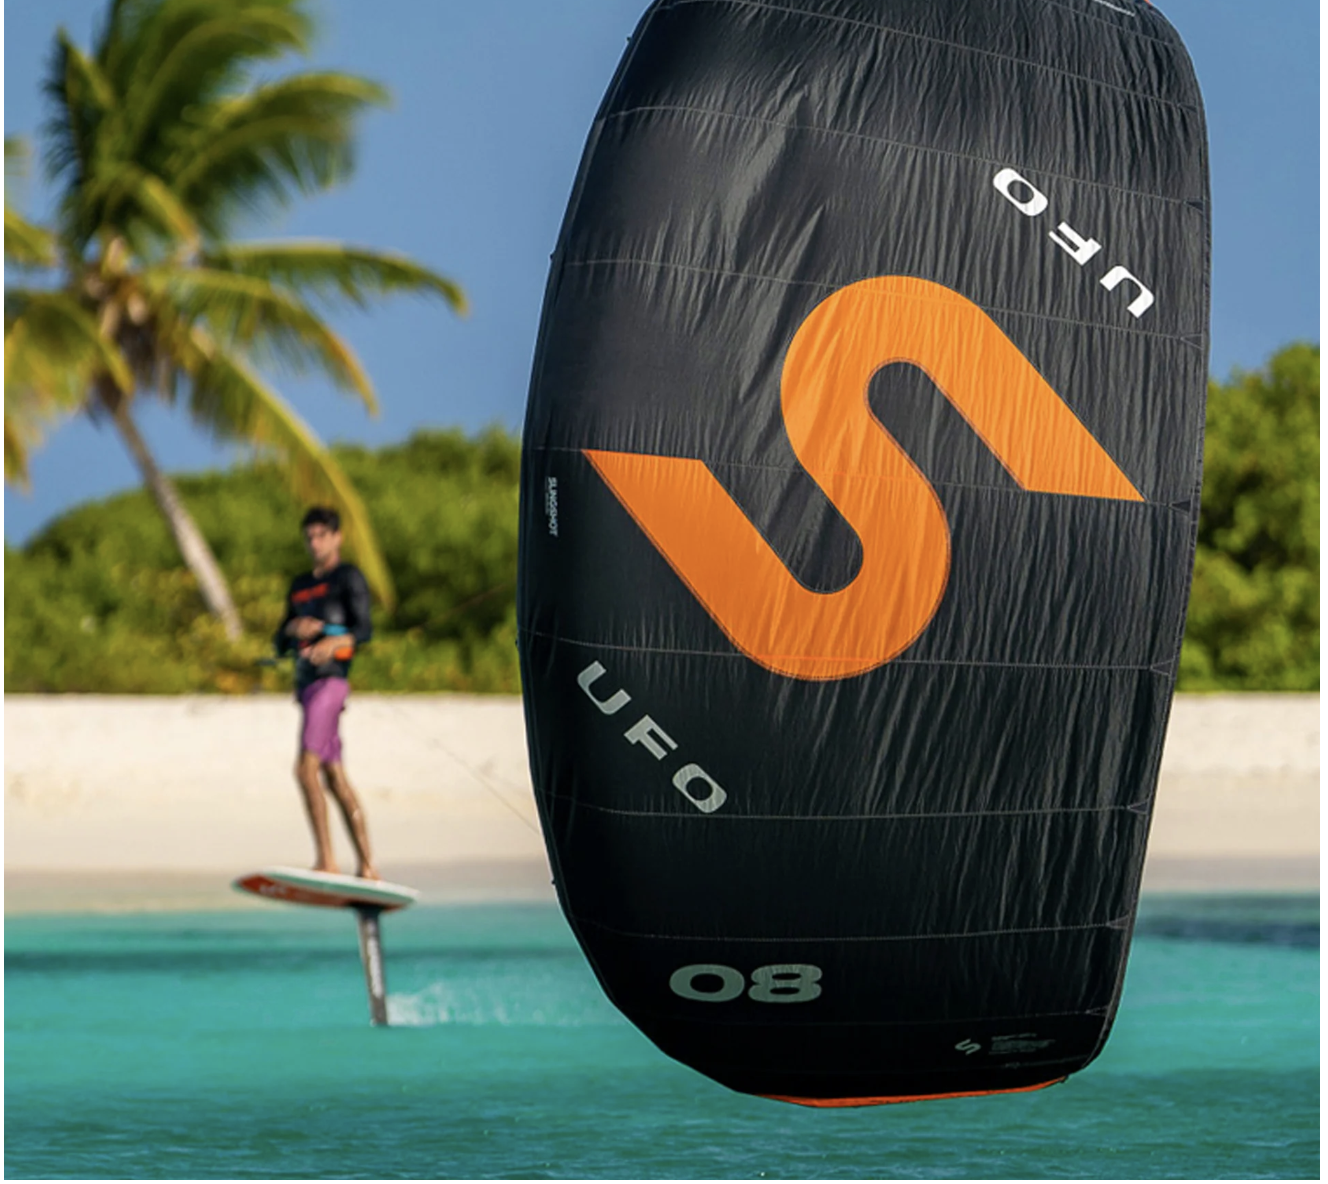
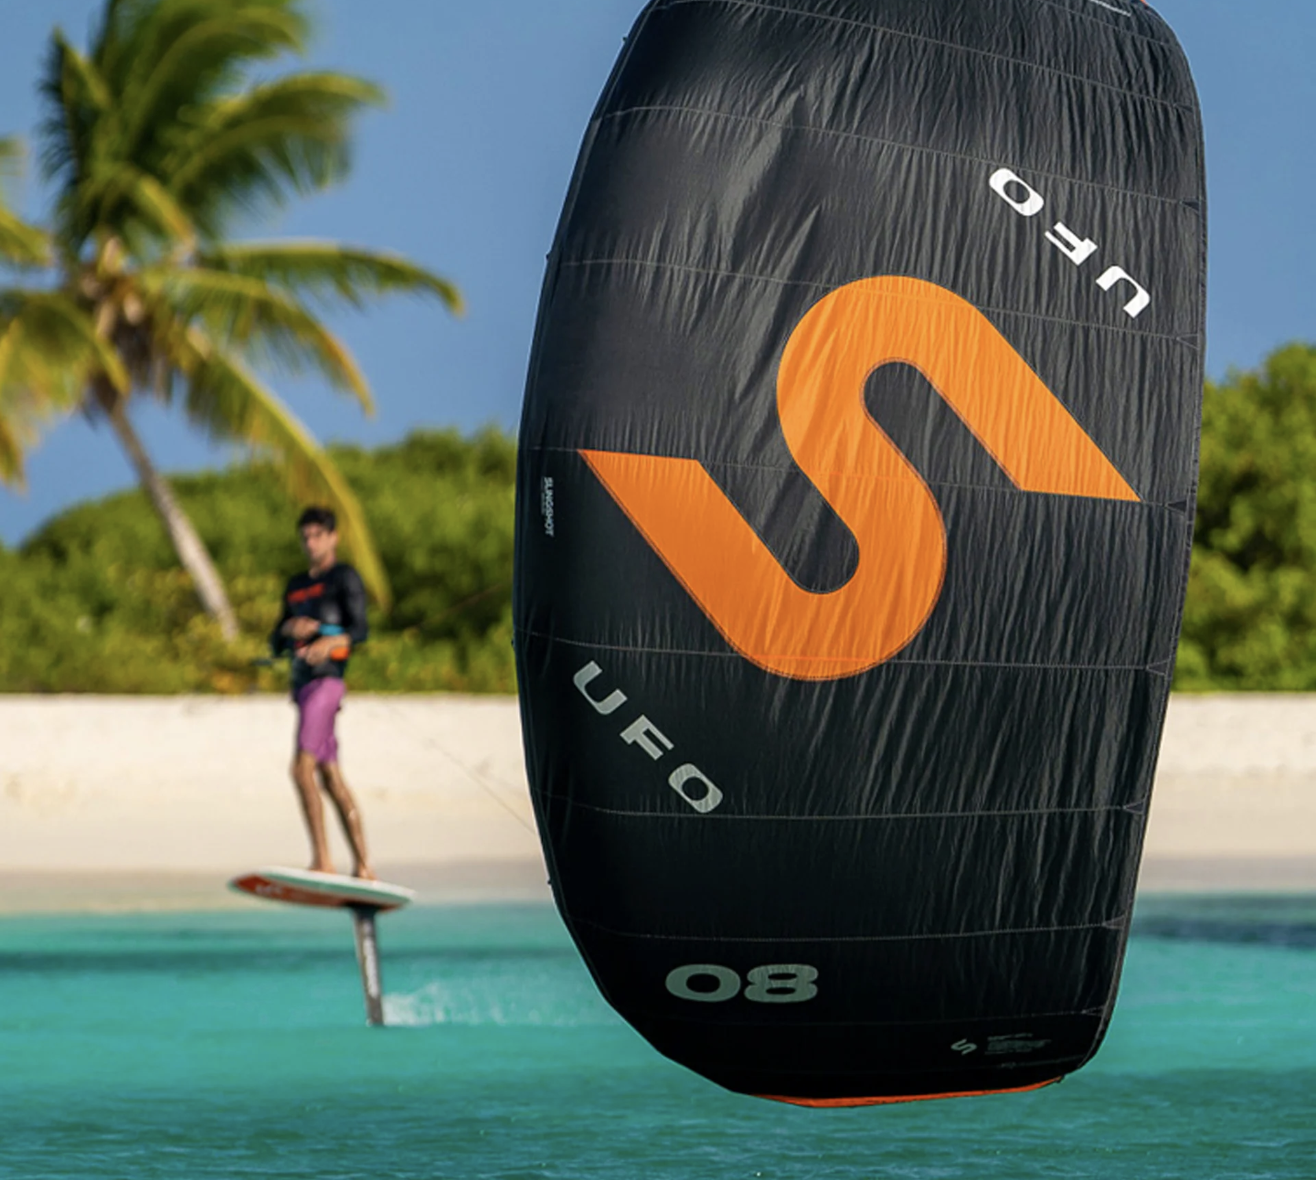
Trim transparent edges from slingshotshop.png; update shop hero eyebrow to Official Slingshot Distributor

diff --git a/shop/index.html b/shop/index.html
@@ -1359,7 +1359,7 @@ height="0" width="0" style="display:none;visibility:hidden"></iframe></noscript>
   <div class="page-hero">
     <div class="page-hero-bg shop-hero-bg" style="background-image:url('../assets/slingshot-wp-home-kite.webp');background-position:center"></div>
     <div class="page-hero-content">
-      <div class="eyebrow">Kite Club Koh Phangan</div>
+      <div class="eyebrow">Official Slingshot Distributor on Koh Phangan</div>
       <h1>Equipment<br><em>Shop</em></h1>
     </div>
   </div>
